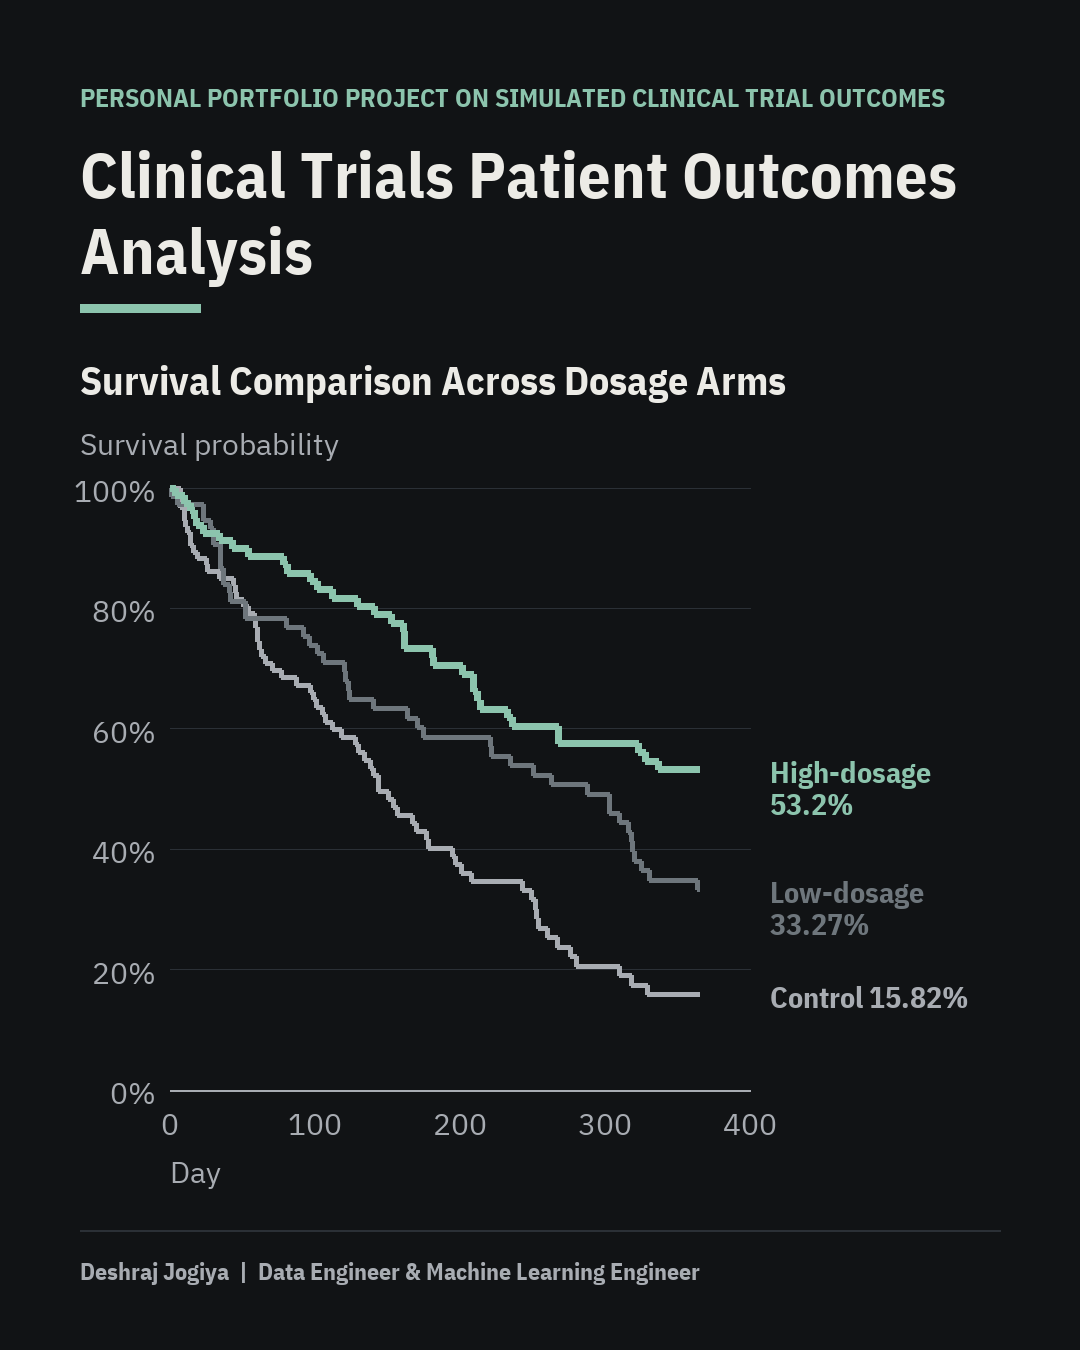
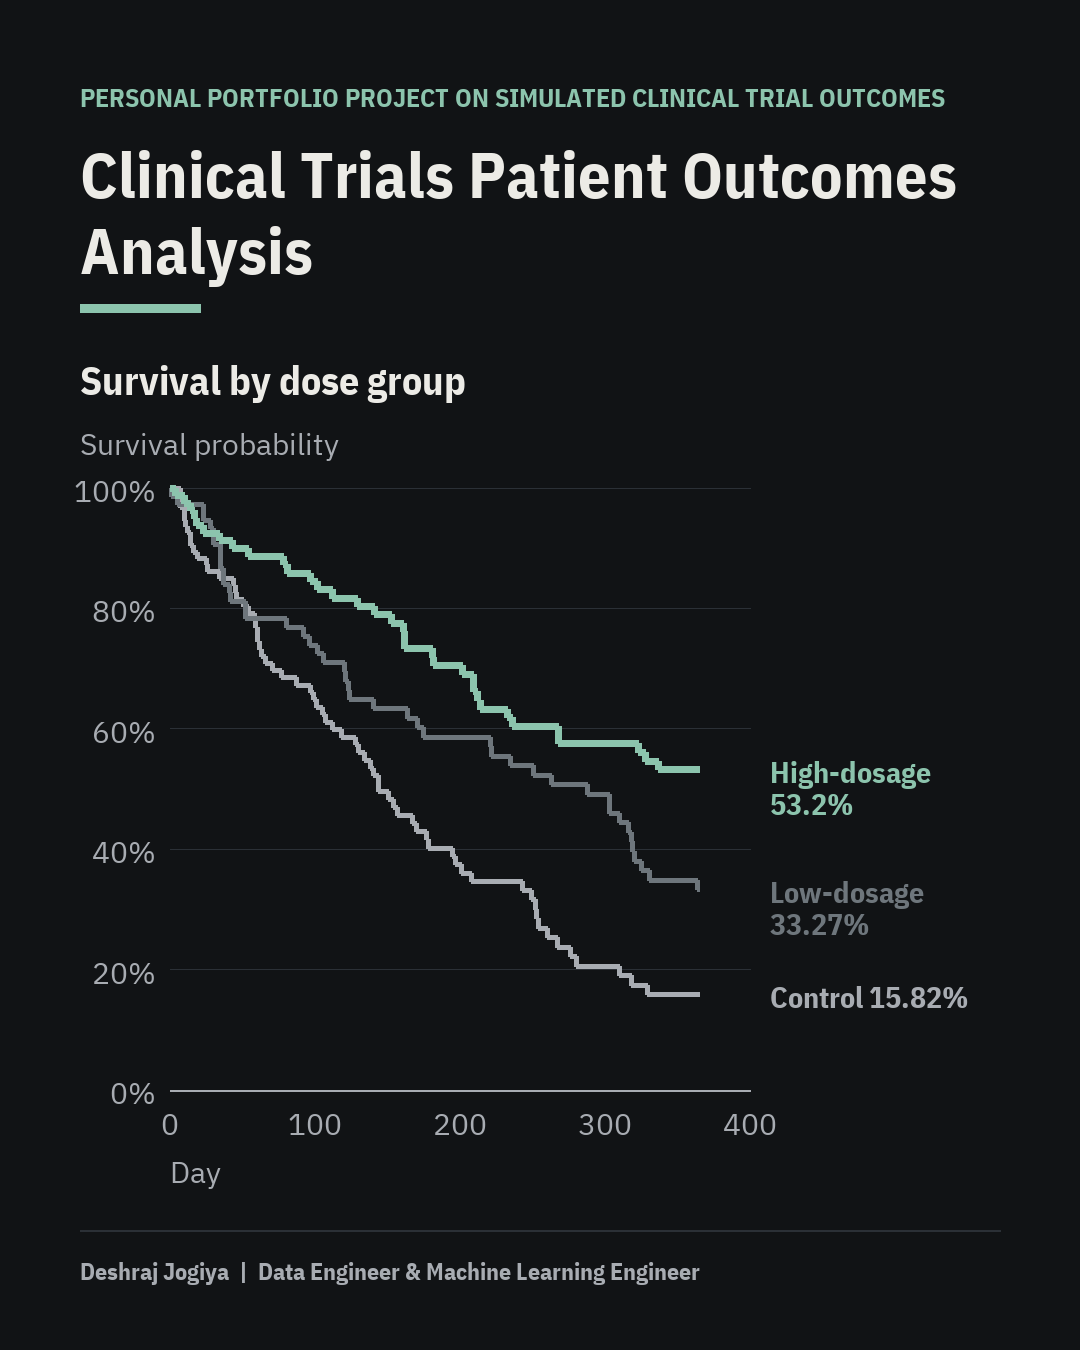
Use the everyday word instead of defining a term of art
Owner on the Clinical post: a stand-alone definition of "arm" fits a talk, but in a post it breaks the reader's
interest. Posts now say "group" instead of "arm" or "cohort" (the check flags the term itself, defined or not), the
writer sees a table headed "Arm" as results by group, and a technical name that must stay is made clear by its
sentence. The queued Mon 11/16 post is rewritten that way, with its image retitled "Survival by dose group".

Changed region(s): [[0.2139, 0.2489, 0.7333, 0.3111]]

diff --git a/app/services/summarizer_service.py b/app/services/summarizer_service.py
@@ -107,9 +107,10 @@ Shape (the structure the owner approved on 2026-10-23):
   Then what you built, the turning point (the result or decision that changed how you read the work), and the measured result.
 - Frame the work as an engineering decision a data or ML engineer would recognise. Keep any job-search backstory to one sentence.
 - Plain words: every number says what it measures ("agreed on 6 of 8 resumes", not "6/8 alignment"). No slogans, no abstract claims.
-- A reader outside the field must follow every sentence: the first time a term of art appears ("arm", "cohort", "drift", "recall"),
-  say in the same or the next sentence what it means in everyday words ("an arm is the trial term for a group of patients who all
-  get the same treatment"). Owner, 2026-11-15: "as an unknown reader... is it talking about a human arm?"
+- A reader outside the field must follow every sentence without stopping: use the everyday word, not the term of art ("group",
+  not "arm" or "cohort"). When a technical name has to stay (Kaplan-Meier, log-rank), let the sentence around it show what it
+  does; never stop the story for a stand-alone definition (owner, 2026-11-15: a trial "arm" read as a human arm, and a definition
+  sentence "just breaks the interest of the reader").
 - Tell it as a story with a question, a test and a finding, not as a list of steps. The question is the one the facts state;
   never give yourself a motive ("I needed to prove", "I wanted to make sure") or a quality word the numbers do not say
   ("perfect", "flawless", "reliable" for 124 of 124: write "all 124 runs passed"). Vary how paragraphs open: at most two start
@@ -421,8 +422,8 @@ What the approved posts do that the draft must do too:
    with their numbers inside the sentences (when STORY lists results by group, compare at least two groups).
 5. A close that says what the result now lets him do with this project, or what the project's own output now shows, in one concrete
    sentence that does not repeat the first line and claims no users the facts do not name, then one specific practitioner question of at least ten words about this post's own choice.
-6. The first time a term of art appears ("arm", "cohort", "drift", "recall"), say in plain words what it means, so a reader
-   outside the field never wonders (a trial "arm" read as a human arm).
+6. Everyday words over terms of art ("group", not "arm" or "cohort"); a technical name that has to stay is made clear by the
+   sentence around it, never by a stand-alone definition that stops the story.
 7. 800 to 1500 characters before the hashtags, short paragraphs, plain words, no word used more than four times, no number more
    than twice, no slogans, then the same two hashtags.
 

diff --git a/app/services/post_rules.py b/app/services/post_rules.py
@@ -428,20 +428,17 @@ def _content_words(text: str) -> set[str]:
     return {w for w in re.findall(r"[a-z][a-z-]+", text.lower()) if len(w) > 3 and w not in _STOP}
 
 
-# Terms of art a reader outside the field misreads, with what an explanation of each says. A trial "arm" read as a human arm
-# (owner, 2026-11-15, on the Clinical Trials post).
-JARGON = {"arm": (r"\barms?\b", r"\bgroups?\b"), "cohort": (r"\bcohorts?\b", r"\bgroups?\b")}
+# Terms of art a reader outside the field misreads, with the everyday word a post uses instead. A trial "arm" read as a human arm,
+# and a stand-alone definition of it "just breaks the interest of the reader" (owner, 2026-11-15, on the Clinical Trials post): a
+# post says "group" and never stops to define a term.
+JARGON = {"arm": (r"\barms?\b", "group"), "cohort": (r"\bcohorts?\b", "group")}
 
 
 def jargon_problems(text: str) -> list[str]:
-    """A term of art used without saying, in the sentence where it first appears or the next one, what it means."""
-    sentences = [x for x in re.split(r"(?<=[.!?:])\s+", text.split("\n#")[0]) if x.strip()]
-    out = []
-    for term, (use, meaning) in JARGON.items():
-        first = next((i for i, x in enumerate(sentences) if re.search(use, x, re.IGNORECASE)), None)
-        if first is not None and not re.search(meaning, " ".join(sentences[first:first + 2]), re.IGNORECASE):
-            out.append(f"plain words: '{term}' is a term of art; say what it means the first time it appears")
-    return out
+    """Terms of art that have an everyday word a reader outside the field understands at once."""
+    body = text.split("\n#")[0]
+    return [f"plain words: say '{plain}' instead of '{term}'; a reader outside the field should never stop to decode a word"
+            for term, (use, plain) in JARGON.items() if re.search(use, body, re.IGNORECASE)]
 
 
 def flow_problems(text: str) -> list[str]:

diff --git a/tests/test_draft_quality.py b/tests/test_draft_quality.py
@@ -38,7 +38,7 @@ When evaluating clinical trial outcomes across several arms, do you rely on log-
 def test_every_group_row_of_the_write_up_reaches_the_writer():
     s = enrich(STORY)
     assert [r["name"] for r in s["groups"]["rows"]] == ["Control", "Low-dosage", "High-dosage"]
-    assert "High-dosage: Survival at day 365 0.5320" in story_text(s)
+    assert "High-dosage: Survival at day 365 0.5320" in story_text(s) and "Results by group" in story_text(s)
 
 
 def test_a_value_the_write_up_no_longer_states_is_dropped():
@@ -91,8 +91,9 @@ def test_the_curves_image_is_preferred_and_its_alt_text_names_the_source_file():
     assert kind == "curves" and "exports/km_curves.csv" in alt and "High-dosage 53.2%" in alt
 
 
-def test_a_term_of_art_must_be_explained_where_it_first_appears():
+def test_a_term_of_art_gives_way_to_the_everyday_word():
     from app.services.post_rules import jargon_problems
 
     assert jargon_problems("I compared three treatment arms. Survival differed.")
-    assert not jargon_problems("I compared three treatment arms. An arm is a group of patients on one treatment.")
+    assert jargon_problems("I compared three arms. An arm is a group of patients on one treatment.")  # no definitions either
+    assert not jargon_problems("I compared three groups: control, a low dosage and a high one.")

diff --git a/app/services/story_bank.py b/app/services/story_bank.py
@@ -89,7 +89,10 @@ def story_text(story: dict) -> str:
     lines.append(f"Decision: {story['decision']}")
     if story.get("groups"):
         g = story["groups"]
-        lines.append(f"Results by {g['group'].lower()} (compare these; every value is as the write-up states it):")
+        from app.services.post_rules import JARGON
+
+        header = JARGON.get(g["group"].lower(), (None, g["group"].lower()))[1]  # "Arm" reaches the writer as "group"
+        lines.append(f"Results by {header} (compare these; every value is as the write-up states it):")
         lines += [f"- {r['name']}: " + "; ".join(f"{c} {v}" for c, v in r["values"].items()) for r in g["rows"]]
     if story.get("simulated"):
         lines.append("Data: simulated (the write-up says so); the post must say the data is simulated.")
